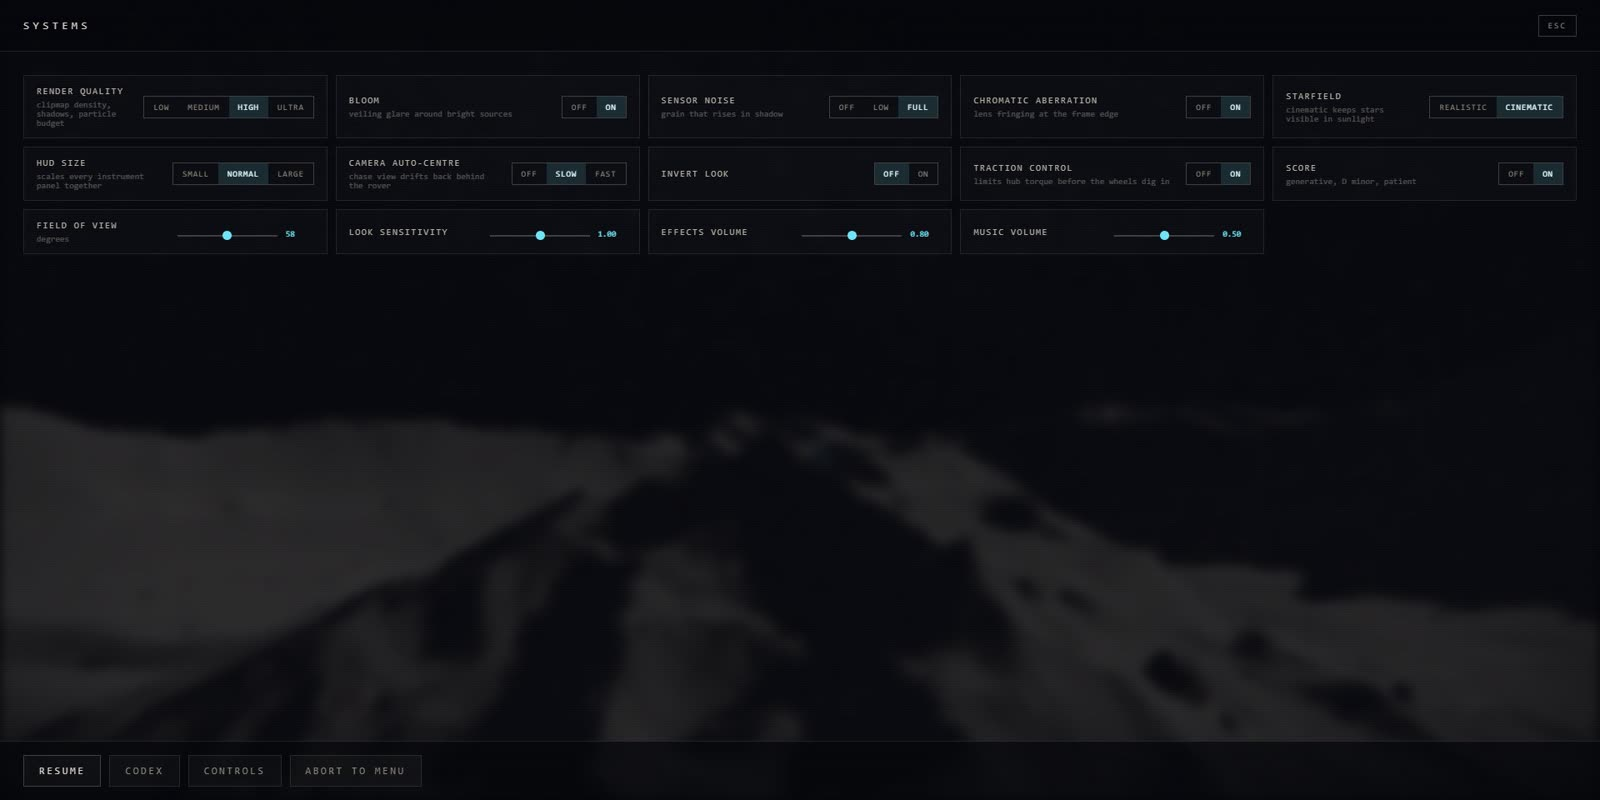
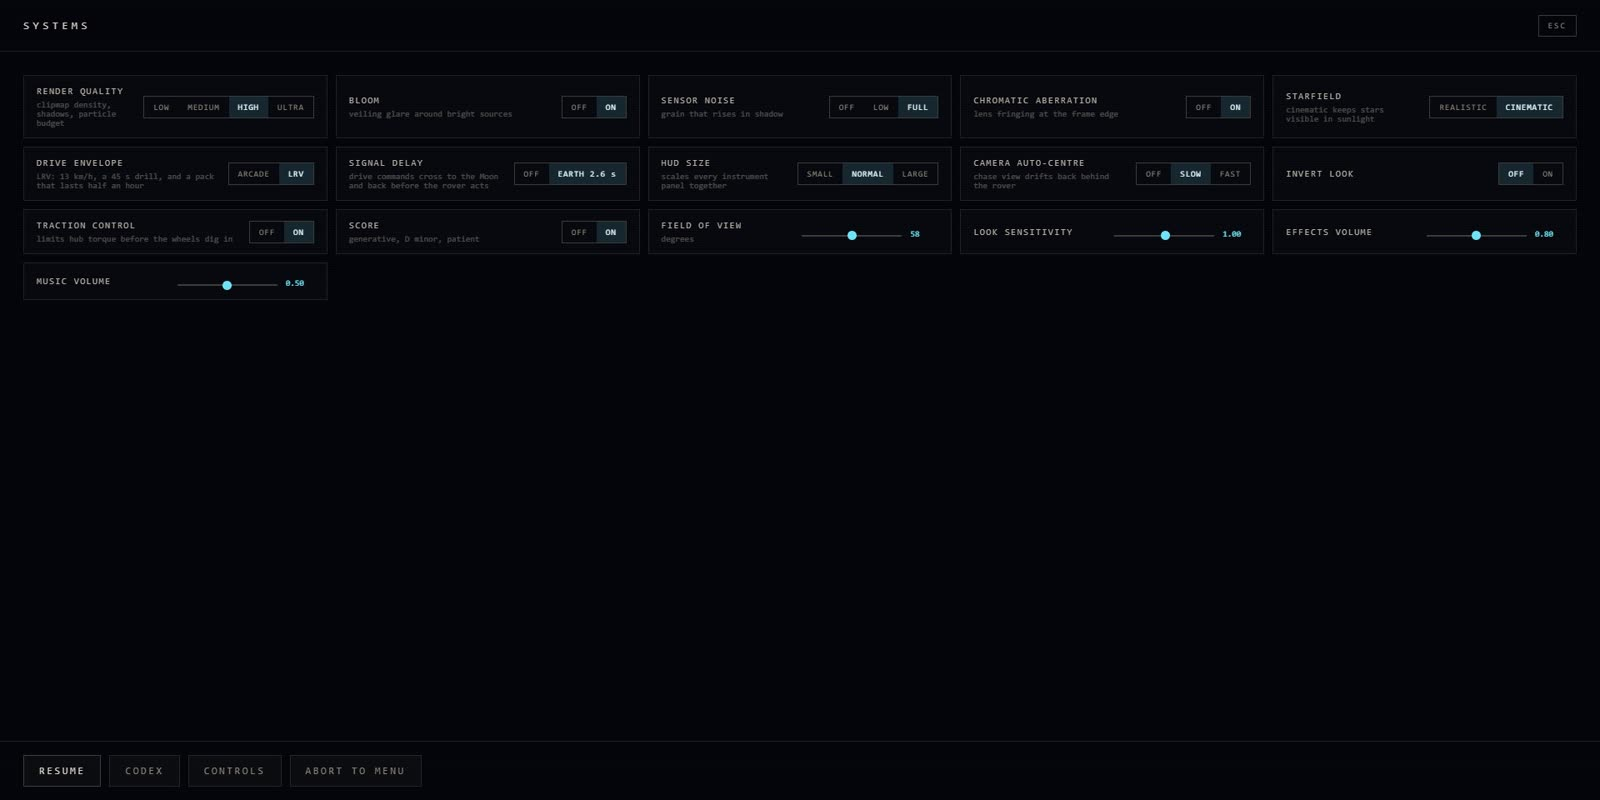
Reshoot the systems panel with the realism settings
docs/systems.jpg predated DRIVE ENVELOPE and SIGNAL DELAY, so the README showed
a settings panel that no longer matched the build. Retaken at 1920x960 with both
switched on - LRV and EARTH 2.6 s - so the screenshot shows what they do rather
than just that they exist.

diff --git a/README.md b/README.md
@@ -181,7 +181,9 @@ lengths earlier than feels right, or you hit the boulder you already stopped for
 Arm aiming and the camera are deliberately not delayed; that is a playability
 call, not a claim about physics, and the reasoning is in `main.js`.
 
-![The systems panel, with render quality, HUD size, camera and audio settings across five columns](docs/systems.jpg)
+![The systems panel, with DRIVE ENVELOPE set to LRV and SIGNAL DELAY set to EARTH 2.6 s](docs/systems.jpg)
+
+*Both realism settings switched on: the LRV drive profile and the Earth round trip.*
 
 ---
 
